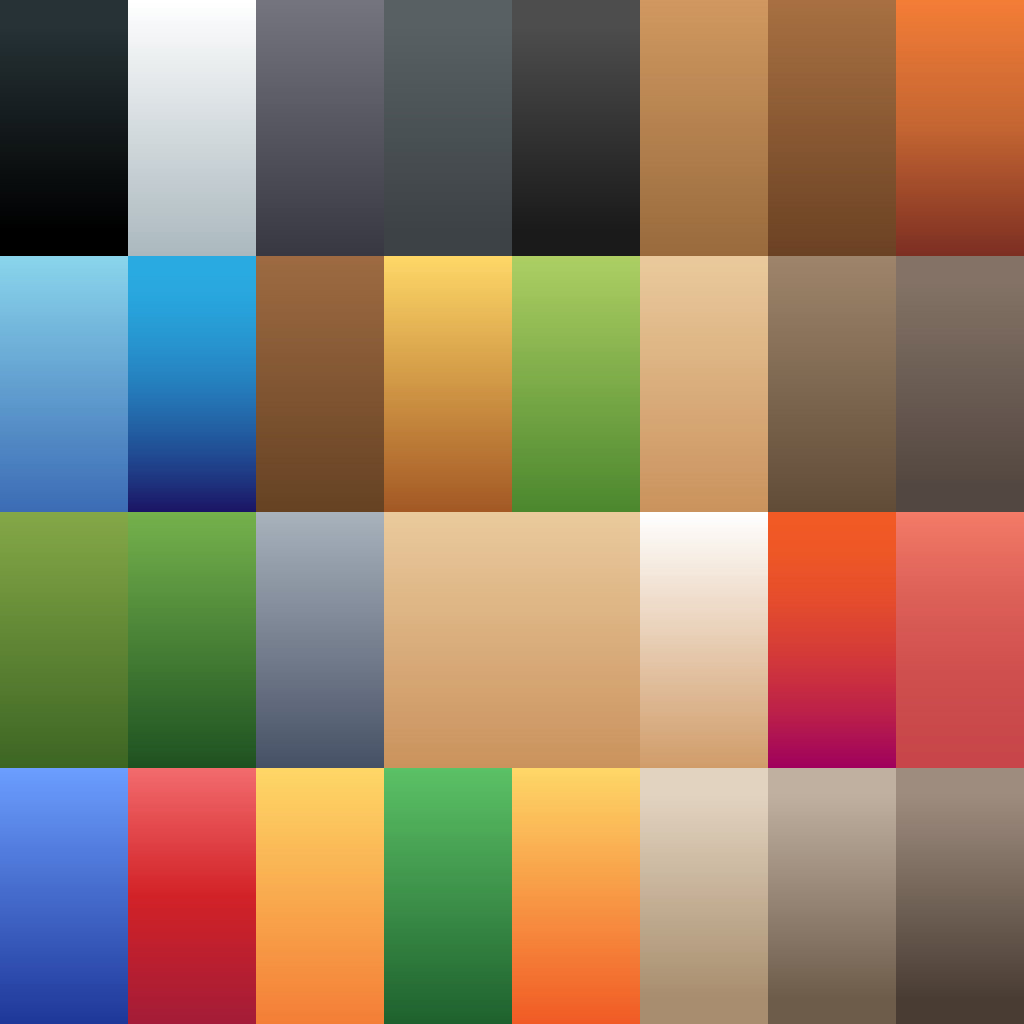
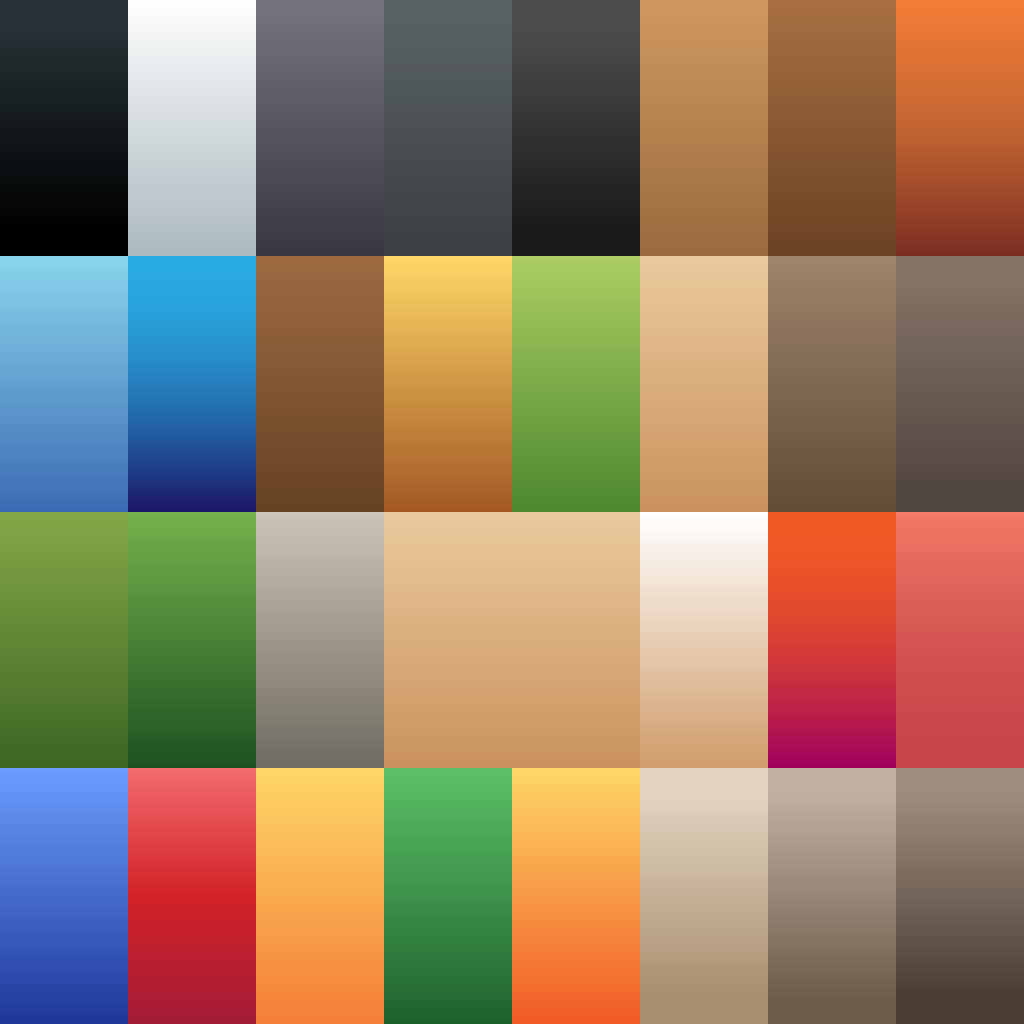
Rock texture for boulders, warm pebbles and river banks
Claude-Session: https://claude.ai/code/session_01BTNGUCSfFyUwNAT5Hw5beB

Changed region(s): [[0.25, 0.5, 0.375, 0.75]]

diff --git a/tools/make_textures.py b/tools/make_textures.py
@@ -379,6 +379,22 @@ def make_road():
     save("road", color, np.clip(h, 0, 1), 1.8)
 
 
+def make_rock():
+    """Rough faceted rock for boulders: warm grey with cracks and lichen,
+    no block pattern."""
+    base = fbm(N, 6, 5, 101)
+    cracks = np.abs(fbm(N, 7, 3, 102) - 0.5) < 0.012
+    facets = value_noise(N, 10, 103)
+    light = rgb(0.80, 0.77, 0.72)
+    dark = rgb(0.52, 0.50, 0.46)
+    color = lerp(dark, light, np.clip(base * 0.6 + facets * 0.6, 0, 1)[..., None])
+    color = lerp(color, rgb(0.38, 0.36, 0.33), cracks[..., None] * 0.8)
+    lichen = (fbm(N, 9, 3, 104) > 0.68)
+    color = lerp(color, rgb(0.62, 0.70, 0.40), lichen[..., None] * 0.55)
+    h = np.clip(0.5 * base + 0.5 * facets - 0.25 * cracks, 0, 1)
+    save("rock", color, h, 2.2)
+
+
 def make_water_noise():
     n = fbm(N // 2, 6, 4, 71)
     Image.fromarray((n * 255).astype(np.uint8)).save(f"{OUT}/water_noise.png")
@@ -392,6 +408,7 @@ make_wood()
 make_bark()
 make_grass()
 make_shingle()
+make_rock()
 make_dirt()
 make_road()
 make_water_noise()

diff --git a/tools/recolor_palette.py b/tools/recolor_palette.py
@@ -17,7 +17,7 @@ px = img.load()
 CELLS = {
     (1, 2): ((0.46, 0.70, 0.30), (0.12, 0.32, 0.13)),   # tree foliage
     (0, 2): ((0.52, 0.66, 0.28), (0.24, 0.40, 0.14)),   # hills
-    (2, 2): ((0.66, 0.70, 0.74), (0.28, 0.32, 0.40)),   # rocks
+    (2, 2): ((0.80, 0.77, 0.72), (0.44, 0.42, 0.38)),   # rocks (warm grey, like the boulders)
     (3, 3): ((0.36, 0.76, 0.40), (0.12, 0.38, 0.18)),   # elf flags
     (0, 3): ((0.42, 0.62, 1.00), (0.12, 0.22, 0.60)),   # human flags
     (6, 0): ((0.66, 0.44, 0.26), (0.42, 0.26, 0.14)),   # wood (crates, barrels, racks, trunks)

diff --git a/README.md b/README.md
@@ -78,7 +78,7 @@ On the title screen, press 1 (D-pad left) or click the Elves card to play the El
 Real models and textures, all CC0 (attributions in `assets/CREDITS.md`):
 
 - **Characters** are the KayKit Adventurers models (Knight, Rogue, Hooded Rogue, Mage, Barbarian) with their own animations: idle, run, sword swings, crossbow shots, spellcasting, blocking, dodging, hit reactions and deaths. `scripts/character_model.gd` picks the model and gear per class, applies a team-colour skin (made by `tools/recolor_skins.py` from the pack's palette textures: green and blond for Elves, blue for Humans, white robes for Healers), adds elf ears and the monarchs' crowns, and runs the animation state machine.
-- **World**: hand-styled cream ashlar, sandstone flagstone, cobble, plank, bark, grass and sandy road textures with normal maps, generated by `tools/make_textures.py` and applied triplanar so every wall and floor tiles cleanly. Both castles are built from one kit (`_add_wall`, `_add_tower`, `_add_stairs`, `_add_railing`, `_add_banner`, `_add_rug` in `scripts/game.gd`): cream ashlar walls with merlons, square corner towers and a gatehouse with pyramid roofs in the team colour, a timber rampart with a railing, timber stairs along the side walls, a banded double door, flagstone yards, team rugs and banners, shingled roofs, and no fences inside the walls. The elven castle's stone carries moss and ivy; Elves add greenery and crystals, Humans braziers and shields. Every prop is placed with clearance from the walls, and `--audit` (`godot --headless -- --audit`) lists any prop that still overlaps a wall, fence, gate or another prop; a river with a shader-animated surface cuts the field in two, crossed by three bridges; cobbled roads with dirt verges run gate to gate. Elven trees are procedural: twisted trunks, roots, layered canopies with a wind-swaying leaf shader, glowing blossoms and autumn variants; the human side mixes in KayKit oaks and pines. Mossy faceted boulders, bushes, fireflies, ruins, and thousands of MultiMesh flowers, grass tufts, stones, mushrooms and fallen leaves (kept off the lanes) fill the ground. The Crown Shrine sits on a stone island in the river with steps from both banks. Characters get a dark outline and rim light so they read against the ground. KayKit Medieval Hexagon and Dungeon props still provide crates, barrels, racks, targets, banners, torches, columns and the class stations' gear, repainted to the same warm palette (`tools/recolor_palette.py`, and the dungeon stone textures tinted to the castle's sandstone).
+- **World**: hand-styled cream ashlar (plain and moss-and-ivy), sandstone flagstone (plain, cracked and mossy), cobble, rock, shingle, nailed plank, bark, grass and sandy road textures with normal maps, generated by `tools/make_textures.py` and applied triplanar so every wall and floor tiles cleanly. Both castles are built from one kit (`_add_wall`, `_add_tower`, `_add_stairs`, `_add_railing`, `_add_banner`, `_add_rug` in `scripts/game.gd`): cream ashlar walls with merlons, square corner towers and a gatehouse with pyramid roofs in the team colour, a timber rampart with a railing, timber stairs along the side walls, a banded double door, flagstone yards, team rugs and banners, shingled roofs, and no fences inside the walls. The elven castle's stone carries moss and ivy; Elves add greenery and crystals, Humans braziers and shields. Every prop is placed with clearance from the walls, and `--audit` (`godot --headless -- --audit`) lists any prop that still overlaps a wall, fence, gate or another prop; a river with a shader-animated surface cuts the field in two, crossed by three bridges; cobbled roads with dirt verges run gate to gate. Elven trees are procedural: twisted trunks, roots, layered canopies with a wind-swaying leaf shader, glowing blossoms and autumn variants; the human side mixes in KayKit oaks and pines. Mossy faceted boulders, bushes, fireflies, ruins, and thousands of MultiMesh flowers, grass tufts, stones, mushrooms and fallen leaves (kept off the lanes) fill the ground. The Crown Shrine sits on a stone island in the river with steps from both banks. Characters get a dark outline and rim light so they read against the ground. KayKit Medieval Hexagon and Dungeon props still provide crates, barrels, racks, targets, banners, torches, columns and the class stations' gear, repainted to the same warm palette (`tools/recolor_palette.py`, and the dungeon stone textures tinted to the castle's sandstone).
 - **Effects**: every attack and ability has its own projectile model and trail (arrows, spinning arcane orbs, fireballs, holy bolts), burst rings, light flashes, particle splashes, knockback, recoil, camera shake, damage numbers and level-up pillars; all built in `scripts/game.gd` (`spawn_splash`, `spawn_ring`, `spawn_pillar`, `spawn_flash`) and `scripts/projectile.gd`.
 - `assets/ui/logo.png` is the game's logo, `assets/ui/cards/` holds the Elves and Humans faction logos, crests and the ten class portraits (used on the title screen, the score tabs, the Tab panel, the player panel and the class menus), and `assets/ui/icons/` holds the painted icon set (every attack and ability, dodge, block, grab, potion, blessings, class emblems and the Forest and Kingdom crests) drawn by `tools/make_icons.py`. `scripts/hud.gd` draws everything else after the UI references: score tabs with the faction crests, the Tab teams panel, class emblems and levels, the minimap, the player panel (portrait with level badge, hearts, energy, a glowing experience bar that pulses when a rank point is waiting, slots for the base attack, Q, E, dodge, block and grab), the objective card, the rank menu, the game menu (overview map, class cards, controls), the title screen and the victory ribbon.
 - `tools/showcase.gd` renders every character to a PNG for a quick art check:
